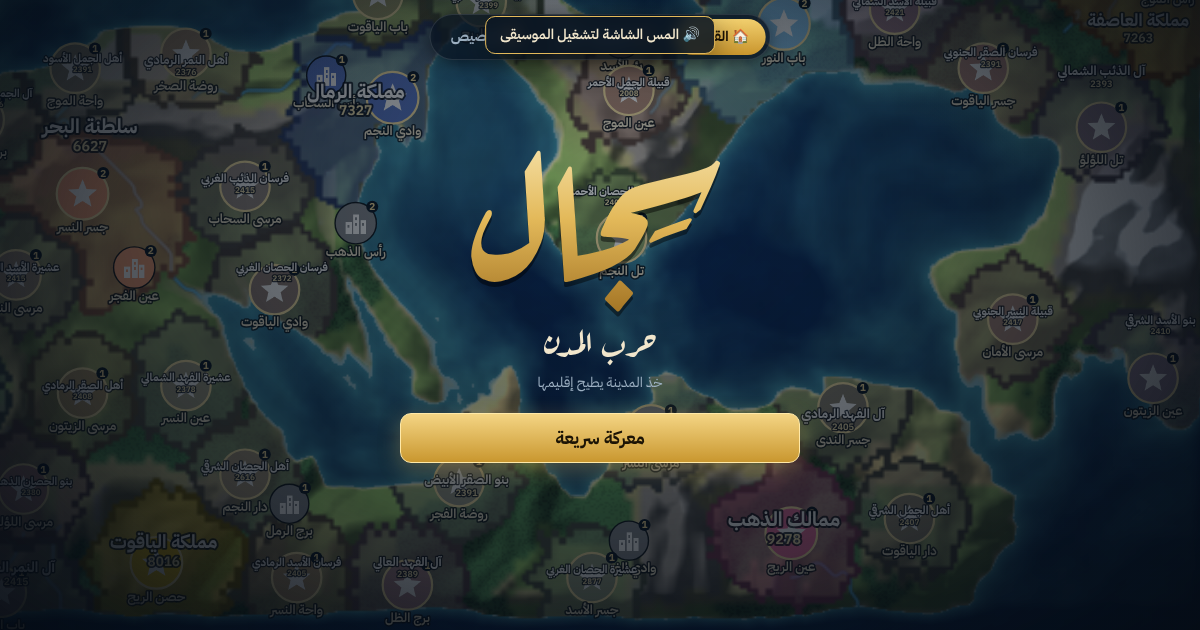
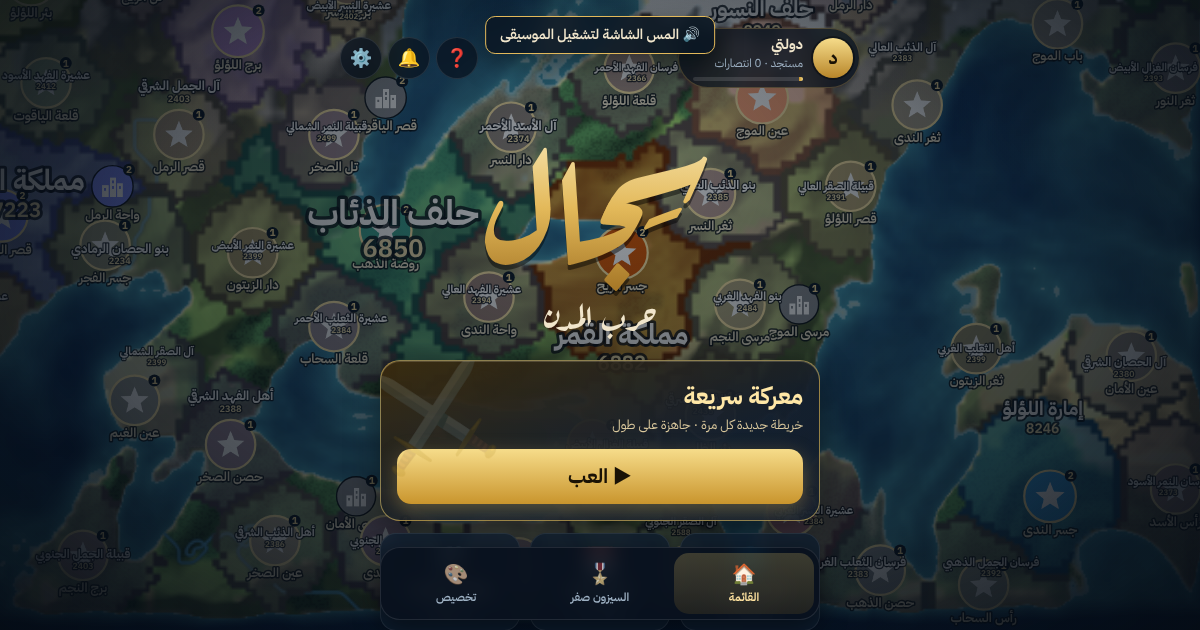
Season Zero and Customize: drop the back buttons the tab bar replaces; news for the new menu
Claude-Session: https://claude.ai/code/session_01DE77Q6PVtjTWn3qCBTcsws

diff --git a/dist/sijal-mobile.html b/dist/sijal-mobile.html
@@ -505,7 +505,7 @@ h3{font-size:13px;color:var(--dim);font-weight:600;margin-bottom:6px}
 </div>
 <script>
 window.SIJAL_MODE='mobile';(function(){"use strict";
-const BUILD_ID='6c9f4a77e5';
+const BUILD_ID='704b83b903';
 // ── SIJAL · core: constants, utilities, shared data ──
 const TPS=10,SEASON_LEN=450;
 // terrain ids: 0 deep, 1 shallow, 2 plains, 3 forest, 4 desert, 5 hills, 6 mountain, 7 snow
@@ -2209,6 +2209,7 @@ TX.en.help[8]=['The road to victory','Hold 99% of the world\'s land. Every realm
 TX.en.dInfo[2]=['Goal: the fastest win','Hold 99% of the land as fast as you can. Your time is saved; the faster the better.'];
 // update log: newest first, the game shows at most ten entries
 const LOG=[
+ {v:'5.3',d:'2026-11-24',ar:['🏠 شكل جديد للقائمة الرئيسية: أريح للعين وأسهل، وشريط تنقل تحت بين القائمة والسيزون صفر والتخصيص'],en:['🏠 A new main menu: calmer and simpler, with a tab bar at the bottom for the menu, Season Zero and Customize']},
  {v:'5.2',d:'2026-11-23',ar:['🔥 النار بعد الصواريخ والنووي صارت واقعية: تهدأ أسرع، وتنتشر بشويش في الأرض الخضراء، وبسرعة في الغابات بدون ما تاكلها كلها، وما تنتشر في الصحراء، وفي الشتاء تطفى بسرعة','✨ شكل النار أحلى في الجرافيكس المتوسط والعالي: لهب بأطوال مختلفة وجمر وشرار ودخان','🛠 المدينة اللي ينضربها صاروخ أو نووي تقدر تصلحها على طول بالذهب: اضغط عليها وتلقى «أصلحها الحين»','🌊 مدى الدفاع البحري صار يطلع على البحر، لأنه يحمي البحر من السفن','⚔ الهجوم صار أسرع إذا جيشك أقوى بكثير من جيش العدو','🛡 الهجوم المضاد على نقطة ما يوقف هجومك من كل الحدود، يرجّع الأرض في مكانه بس. اللي يوقفه كامل هجوم مضاد من كل الحدود','😠 البوتات ما تصير معادية لك إلا إذا هجمت عليهم أو هجموا عليك','🚢 لما توقف التجارة مع دولة، السفن والقطارات اللي رايحة لها ترجع لميناءك بدل ما تختفي'],en:['🔥 Fire after missiles and nukes is realistic now: it dies down faster, creeps slowly over grass, races through forest without taking all of it, never spreads on sand, and in winter it goes out quickly','✨ Nicer fire on Medium and High graphics: flames of different heights, embers, sparks and smoke','🛠 A city hit by a missile or nuke can be repaired at once for gold: tap it and press Repair now','🌊 The coastal gun range now shows over the sea, since it guards the water from ships','⚔ Attacks move faster when your army far outnumbers the enemy','🛡 A counter-attack at one point no longer stops your all-borders attack, it only takes ground back where it lands; only an all-borders counter-attack stops it whole','😠 Bots only turn hostile when you attack them or they attack you','🚢 When you stop trade with a realm, ships and trains heading there sail back to your port instead of vanishing']},
  {v:'5.1',d:'2026-11-22',ar:['🎵 صار للعبة حساب على تيك توك: @sijal_2، تلقاه في القائمة الرئيسية. تابعنا!'],en:['🎵 Sijal is on TikTok: @sijal_2, linked from the main menu. Follow us!']},
  {v:'5.0',d:'2026-11-22',ar:['⚔ لما تقضي على دولة تاخذ أرضها كاملة، ما يبقى منها شي فاضي','🪖 شكل جديد للدبابات: جنازير وعجلات تتحرك، وهيكل مموّه بلون دولتك، وبرج ومدفع، ولهب من المدفع وغبار وهي تمشي','🛡 خطوط مدى الحصون صارت تطلع بس لما تختار الحصن أو تبني، عشان ما تتلخبط مع الحدود','🚀 القبة الدفاعية صارت تطلق صاروخ اعتراض يطلع للسما ويفجّر الصاروخ الجاي، والدفاع البحري يطلق قذيفة بلهب من المدفع وترشّ الموية مكان ما تطيح','📏 تطوير الحصن والقبة والدفاع البحري صار يكبّر مداهم بشكل أكبر: الحصن من 8 لين 18، القبة من 19 لين 35، والدفاع البحري من 17 لين 33'],en:['⚔ Wiping out a realm now gives you all of its land, with nothing left empty','🪖 New tank look: moving tracks and wheels, a camouflaged hull in your colour, turret and gun, muzzle flash and dust on the move','🛡 Fort range outlines only show when you select a fort or build, so they are not mistaken for borders','🚀 Shield domes now launch an interceptor that climbs and bursts the incoming missile, and coastal guns fire a shell with a muzzle flash and a splash where it lands','📏 Upgrading forts, domes and coastal guns now grows their range much more: fort 8 to 18, dome 19 to 35, coastal gun 17 to 33']},
@@ -2806,13 +2807,13 @@ function renderPass(){
   const openBtn=on?'':`<button class="btn big bpbuy${xp>=PASS_AT?'':' low'}" data-a="bpBuy">🎖 ${t('bpOpen')} · ${fmt(PASS_AT)}</button>`;
   $('#help').innerHTML=`${mtabs('pass')}<h2>🎖 ${t('bp')}</h2><p class="keys">${t('bpNote')}</p><div class="bpbar"><div style="width:${pc}%"></div><span dir="ltr">${on?(n>=PASS.length?t('bpTier',n,PASS.length):fmt(PASS_STEP)+' / '+fmt(xp)):fmt(PASS_AT)+' / '+fmt(xp)}</span></div><p class="keys">${head}</p>${openBtn}${n<PASS.length&&!UI.owner?`<div class="sup"><b>💜 ${t('supT',SUPPORT_SAR)}</b><span>${t('supD')}</span><span>${t('supWho')}</span><button class="btn ok" data-a="supOpen">${t('supBtn',SUPPORT_SAR)}</button></div>`:''}
   <div class="bpg free">${PASS.map(([ty,id],j)=>{const got=j<n,eq=k[ty]===id;return`<div class="bpc${got?' got':''}${eq?' eq':''}${on&&j===n?(xp>=PASS_STEP?' can':' cant'):''}"><small>${j+1}</small><img src="${skinPreview(ty,id)}" alt=""><b>${t('sk_'+id)}</b><span>${t(ty==='pat'?'bpPat':'bpBld')}</span>${got?`<em class="ok">✓ ${t('bpGot')}</em>`:on&&j===n?`<button class="btn sm ok" data-a="bpBuy">${t('bpClaim')} · ${fmt(PASS_STEP)}</button>`:`<em>🔒 ${fmt(PASS_STEP)}</em>`}</div>`;}).join('')}</div>
-  <div class="row"><button class="btn" data-a="skins">🎨 ${t('tSkins')}</button><button class="btn big" data-a="menu">${t('back')}</button></div>`;
+  `;
 }
 // customization: equip what you have unlocked
 function renderSkins(){
   const p=UI.prof,k=p.skin||{},n=passTier(p),sec=(ty,lab)=>{const L=PASS.slice(0,n).filter(e=>e[0]===ty);return`<h3>${lab}</h3><div class="bpg free"><div class="bpc got${!k[ty]?' eq':''}"><div class="none">✕</div><b>${t('skNone')}</b><button class="btn sm${!k[ty]?'':' ok'}" data-a="skin:${ty}:">${!k[ty]?'✓ '+t('bpOn'):t('bpWear')}</button></div>${L.map(([,id])=>{const eq=k[ty]===id;return`<div class="bpc got${eq?' eq':''}"><img src="${skinPreview(ty,id)}" alt=""><b>${t('sk_'+id)}</b><button class="btn sm${eq?'':' ok'}" data-a="skin:${ty}:${eq?'':id}">${eq?'✓ '+t('bpOn'):t('bpWear')}</button></div>`;}).join('')}</div>`;};
   const bdg=hasPass(p)?`<h3>${t('bdgT')}</h3><div class="bdgrow"><span class="bdgshow">${BADGE}<b>${esc(p.name||t('defName'))}</b></span><div class="chips"><button class="chip${!p.hideBadge?' on':''}" data-a="badge:1">${t('bdgOn')}</button><button class="chip${p.hideBadge?' on':''}" data-a="badge:0">${t('bdgOff')}</button></div></div><p class="keys">${t('bdgNote')}</p>`:'';
-  $('#help').innerHTML=`${mtabs('skins')}<h2>🎨 ${t('tSkins')}</h2>${bdg}${n?`<p class="keys">${t('skNote')}</p>${sec('pat',t('bpPat'))}${sec('bld',t('bpBld'))}`:`<p class="keys">${t('skEmpty')}</p>`}<div class="row"><button class="btn big" data-a="menu">${t('back')}</button></div>`;
+  $('#help').innerHTML=`${mtabs('skins')}<h2>🎨 ${t('tSkins')}</h2>${bdg}${n?`<p class="keys">${t('skNote')}</p>${sec('pat',t('bpPat'))}${sec('bld',t('bpBld'))}`:`<p class="keys">${t('skEmpty')}</p>`}`;
 }
 // ── admins: the root account plus anyone it (or another admin) grants; checked against the database, which enforces it ──
 const ADMIN_ROOT='saadsd';

diff --git a/dist/sijal-pc.html b/dist/sijal-pc.html
@@ -505,7 +505,7 @@ h3{font-size:13px;color:var(--dim);font-weight:600;margin-bottom:6px}
 </div>
 <script>
 window.SIJAL_MODE='pc';(function(){"use strict";
-const BUILD_ID='6c9f4a77e5';
+const BUILD_ID='704b83b903';
 // ── SIJAL · core: constants, utilities, shared data ──
 const TPS=10,SEASON_LEN=450;
 // terrain ids: 0 deep, 1 shallow, 2 plains, 3 forest, 4 desert, 5 hills, 6 mountain, 7 snow
@@ -2209,6 +2209,7 @@ TX.en.help[8]=['The road to victory','Hold 99% of the world\'s land. Every realm
 TX.en.dInfo[2]=['Goal: the fastest win','Hold 99% of the land as fast as you can. Your time is saved; the faster the better.'];
 // update log: newest first, the game shows at most ten entries
 const LOG=[
+ {v:'5.3',d:'2026-11-24',ar:['🏠 شكل جديد للقائمة الرئيسية: أريح للعين وأسهل، وشريط تنقل تحت بين القائمة والسيزون صفر والتخصيص'],en:['🏠 A new main menu: calmer and simpler, with a tab bar at the bottom for the menu, Season Zero and Customize']},
  {v:'5.2',d:'2026-11-23',ar:['🔥 النار بعد الصواريخ والنووي صارت واقعية: تهدأ أسرع، وتنتشر بشويش في الأرض الخضراء، وبسرعة في الغابات بدون ما تاكلها كلها، وما تنتشر في الصحراء، وفي الشتاء تطفى بسرعة','✨ شكل النار أحلى في الجرافيكس المتوسط والعالي: لهب بأطوال مختلفة وجمر وشرار ودخان','🛠 المدينة اللي ينضربها صاروخ أو نووي تقدر تصلحها على طول بالذهب: اضغط عليها وتلقى «أصلحها الحين»','🌊 مدى الدفاع البحري صار يطلع على البحر، لأنه يحمي البحر من السفن','⚔ الهجوم صار أسرع إذا جيشك أقوى بكثير من جيش العدو','🛡 الهجوم المضاد على نقطة ما يوقف هجومك من كل الحدود، يرجّع الأرض في مكانه بس. اللي يوقفه كامل هجوم مضاد من كل الحدود','😠 البوتات ما تصير معادية لك إلا إذا هجمت عليهم أو هجموا عليك','🚢 لما توقف التجارة مع دولة، السفن والقطارات اللي رايحة لها ترجع لميناءك بدل ما تختفي'],en:['🔥 Fire after missiles and nukes is realistic now: it dies down faster, creeps slowly over grass, races through forest without taking all of it, never spreads on sand, and in winter it goes out quickly','✨ Nicer fire on Medium and High graphics: flames of different heights, embers, sparks and smoke','🛠 A city hit by a missile or nuke can be repaired at once for gold: tap it and press Repair now','🌊 The coastal gun range now shows over the sea, since it guards the water from ships','⚔ Attacks move faster when your army far outnumbers the enemy','🛡 A counter-attack at one point no longer stops your all-borders attack, it only takes ground back where it lands; only an all-borders counter-attack stops it whole','😠 Bots only turn hostile when you attack them or they attack you','🚢 When you stop trade with a realm, ships and trains heading there sail back to your port instead of vanishing']},
  {v:'5.1',d:'2026-11-22',ar:['🎵 صار للعبة حساب على تيك توك: @sijal_2، تلقاه في القائمة الرئيسية. تابعنا!'],en:['🎵 Sijal is on TikTok: @sijal_2, linked from the main menu. Follow us!']},
  {v:'5.0',d:'2026-11-22',ar:['⚔ لما تقضي على دولة تاخذ أرضها كاملة، ما يبقى منها شي فاضي','🪖 شكل جديد للدبابات: جنازير وعجلات تتحرك، وهيكل مموّه بلون دولتك، وبرج ومدفع، ولهب من المدفع وغبار وهي تمشي','🛡 خطوط مدى الحصون صارت تطلع بس لما تختار الحصن أو تبني، عشان ما تتلخبط مع الحدود','🚀 القبة الدفاعية صارت تطلق صاروخ اعتراض يطلع للسما ويفجّر الصاروخ الجاي، والدفاع البحري يطلق قذيفة بلهب من المدفع وترشّ الموية مكان ما تطيح','📏 تطوير الحصن والقبة والدفاع البحري صار يكبّر مداهم بشكل أكبر: الحصن من 8 لين 18، القبة من 19 لين 35، والدفاع البحري من 17 لين 33'],en:['⚔ Wiping out a realm now gives you all of its land, with nothing left empty','🪖 New tank look: moving tracks and wheels, a camouflaged hull in your colour, turret and gun, muzzle flash and dust on the move','🛡 Fort range outlines only show when you select a fort or build, so they are not mistaken for borders','🚀 Shield domes now launch an interceptor that climbs and bursts the incoming missile, and coastal guns fire a shell with a muzzle flash and a splash where it lands','📏 Upgrading forts, domes and coastal guns now grows their range much more: fort 8 to 18, dome 19 to 35, coastal gun 17 to 33']},
@@ -2806,13 +2807,13 @@ function renderPass(){
   const openBtn=on?'':`<button class="btn big bpbuy${xp>=PASS_AT?'':' low'}" data-a="bpBuy">🎖 ${t('bpOpen')} · ${fmt(PASS_AT)}</button>`;
   $('#help').innerHTML=`${mtabs('pass')}<h2>🎖 ${t('bp')}</h2><p class="keys">${t('bpNote')}</p><div class="bpbar"><div style="width:${pc}%"></div><span dir="ltr">${on?(n>=PASS.length?t('bpTier',n,PASS.length):fmt(PASS_STEP)+' / '+fmt(xp)):fmt(PASS_AT)+' / '+fmt(xp)}</span></div><p class="keys">${head}</p>${openBtn}${n<PASS.length&&!UI.owner?`<div class="sup"><b>💜 ${t('supT',SUPPORT_SAR)}</b><span>${t('supD')}</span><span>${t('supWho')}</span><button class="btn ok" data-a="supOpen">${t('supBtn',SUPPORT_SAR)}</button></div>`:''}
   <div class="bpg free">${PASS.map(([ty,id],j)=>{const got=j<n,eq=k[ty]===id;return`<div class="bpc${got?' got':''}${eq?' eq':''}${on&&j===n?(xp>=PASS_STEP?' can':' cant'):''}"><small>${j+1}</small><img src="${skinPreview(ty,id)}" alt=""><b>${t('sk_'+id)}</b><span>${t(ty==='pat'?'bpPat':'bpBld')}</span>${got?`<em class="ok">✓ ${t('bpGot')}</em>`:on&&j===n?`<button class="btn sm ok" data-a="bpBuy">${t('bpClaim')} · ${fmt(PASS_STEP)}</button>`:`<em>🔒 ${fmt(PASS_STEP)}</em>`}</div>`;}).join('')}</div>
-  <div class="row"><button class="btn" data-a="skins">🎨 ${t('tSkins')}</button><button class="btn big" data-a="menu">${t('back')}</button></div>`;
+  `;
 }
 // customization: equip what you have unlocked
 function renderSkins(){
   const p=UI.prof,k=p.skin||{},n=passTier(p),sec=(ty,lab)=>{const L=PASS.slice(0,n).filter(e=>e[0]===ty);return`<h3>${lab}</h3><div class="bpg free"><div class="bpc got${!k[ty]?' eq':''}"><div class="none">✕</div><b>${t('skNone')}</b><button class="btn sm${!k[ty]?'':' ok'}" data-a="skin:${ty}:">${!k[ty]?'✓ '+t('bpOn'):t('bpWear')}</button></div>${L.map(([,id])=>{const eq=k[ty]===id;return`<div class="bpc got${eq?' eq':''}"><img src="${skinPreview(ty,id)}" alt=""><b>${t('sk_'+id)}</b><button class="btn sm${eq?'':' ok'}" data-a="skin:${ty}:${eq?'':id}">${eq?'✓ '+t('bpOn'):t('bpWear')}</button></div>`;}).join('')}</div>`;};
   const bdg=hasPass(p)?`<h3>${t('bdgT')}</h3><div class="bdgrow"><span class="bdgshow">${BADGE}<b>${esc(p.name||t('defName'))}</b></span><div class="chips"><button class="chip${!p.hideBadge?' on':''}" data-a="badge:1">${t('bdgOn')}</button><button class="chip${p.hideBadge?' on':''}" data-a="badge:0">${t('bdgOff')}</button></div></div><p class="keys">${t('bdgNote')}</p>`:'';
-  $('#help').innerHTML=`${mtabs('skins')}<h2>🎨 ${t('tSkins')}</h2>${bdg}${n?`<p class="keys">${t('skNote')}</p>${sec('pat',t('bpPat'))}${sec('bld',t('bpBld'))}`:`<p class="keys">${t('skEmpty')}</p>`}<div class="row"><button class="btn big" data-a="menu">${t('back')}</button></div>`;
+  $('#help').innerHTML=`${mtabs('skins')}<h2>🎨 ${t('tSkins')}</h2>${bdg}${n?`<p class="keys">${t('skNote')}</p>${sec('pat',t('bpPat'))}${sec('bld',t('bpBld'))}`:`<p class="keys">${t('skEmpty')}</p>`}`;
 }
 // ── admins: the root account plus anyone it (or another admin) grants; checked against the database, which enforces it ──
 const ADMIN_ROOT='saadsd';

diff --git a/dist/sijal-artifact.html b/dist/sijal-artifact.html
@@ -495,7 +495,7 @@ h3{font-size:13px;color:var(--dim);font-weight:600;margin-bottom:6px}
 </div>
 <script>
 (function(){"use strict";
-const BUILD_ID='6c9f4a77e5';
+const BUILD_ID='704b83b903';
 // ── SIJAL · core: constants, utilities, shared data ──
 const TPS=10,SEASON_LEN=450;
 // terrain ids: 0 deep, 1 shallow, 2 plains, 3 forest, 4 desert, 5 hills, 6 mountain, 7 snow
@@ -2199,6 +2199,7 @@ TX.en.help[8]=['The road to victory','Hold 99% of the world\'s land. Every realm
 TX.en.dInfo[2]=['Goal: the fastest win','Hold 99% of the land as fast as you can. Your time is saved; the faster the better.'];
 // update log: newest first, the game shows at most ten entries
 const LOG=[
+ {v:'5.3',d:'2026-11-24',ar:['🏠 شكل جديد للقائمة الرئيسية: أريح للعين وأسهل، وشريط تنقل تحت بين القائمة والسيزون صفر والتخصيص'],en:['🏠 A new main menu: calmer and simpler, with a tab bar at the bottom for the menu, Season Zero and Customize']},
  {v:'5.2',d:'2026-11-23',ar:['🔥 النار بعد الصواريخ والنووي صارت واقعية: تهدأ أسرع، وتنتشر بشويش في الأرض الخضراء، وبسرعة في الغابات بدون ما تاكلها كلها، وما تنتشر في الصحراء، وفي الشتاء تطفى بسرعة','✨ شكل النار أحلى في الجرافيكس المتوسط والعالي: لهب بأطوال مختلفة وجمر وشرار ودخان','🛠 المدينة اللي ينضربها صاروخ أو نووي تقدر تصلحها على طول بالذهب: اضغط عليها وتلقى «أصلحها الحين»','🌊 مدى الدفاع البحري صار يطلع على البحر، لأنه يحمي البحر من السفن','⚔ الهجوم صار أسرع إذا جيشك أقوى بكثير من جيش العدو','🛡 الهجوم المضاد على نقطة ما يوقف هجومك من كل الحدود، يرجّع الأرض في مكانه بس. اللي يوقفه كامل هجوم مضاد من كل الحدود','😠 البوتات ما تصير معادية لك إلا إذا هجمت عليهم أو هجموا عليك','🚢 لما توقف التجارة مع دولة، السفن والقطارات اللي رايحة لها ترجع لميناءك بدل ما تختفي'],en:['🔥 Fire after missiles and nukes is realistic now: it dies down faster, creeps slowly over grass, races through forest without taking all of it, never spreads on sand, and in winter it goes out quickly','✨ Nicer fire on Medium and High graphics: flames of different heights, embers, sparks and smoke','🛠 A city hit by a missile or nuke can be repaired at once for gold: tap it and press Repair now','🌊 The coastal gun range now shows over the sea, since it guards the water from ships','⚔ Attacks move faster when your army far outnumbers the enemy','🛡 A counter-attack at one point no longer stops your all-borders attack, it only takes ground back where it lands; only an all-borders counter-attack stops it whole','😠 Bots only turn hostile when you attack them or they attack you','🚢 When you stop trade with a realm, ships and trains heading there sail back to your port instead of vanishing']},
  {v:'5.1',d:'2026-11-22',ar:['🎵 صار للعبة حساب على تيك توك: @sijal_2، تلقاه في القائمة الرئيسية. تابعنا!'],en:['🎵 Sijal is on TikTok: @sijal_2, linked from the main menu. Follow us!']},
  {v:'5.0',d:'2026-11-22',ar:['⚔ لما تقضي على دولة تاخذ أرضها كاملة، ما يبقى منها شي فاضي','🪖 شكل جديد للدبابات: جنازير وعجلات تتحرك، وهيكل مموّه بلون دولتك، وبرج ومدفع، ولهب من المدفع وغبار وهي تمشي','🛡 خطوط مدى الحصون صارت تطلع بس لما تختار الحصن أو تبني، عشان ما تتلخبط مع الحدود','🚀 القبة الدفاعية صارت تطلق صاروخ اعتراض يطلع للسما ويفجّر الصاروخ الجاي، والدفاع البحري يطلق قذيفة بلهب من المدفع وترشّ الموية مكان ما تطيح','📏 تطوير الحصن والقبة والدفاع البحري صار يكبّر مداهم بشكل أكبر: الحصن من 8 لين 18، القبة من 19 لين 35، والدفاع البحري من 17 لين 33'],en:['⚔ Wiping out a realm now gives you all of its land, with nothing left empty','🪖 New tank look: moving tracks and wheels, a camouflaged hull in your colour, turret and gun, muzzle flash and dust on the move','🛡 Fort range outlines only show when you select a fort or build, so they are not mistaken for borders','🚀 Shield domes now launch an interceptor that climbs and bursts the incoming missile, and coastal guns fire a shell with a muzzle flash and a splash where it lands','📏 Upgrading forts, domes and coastal guns now grows their range much more: fort 8 to 18, dome 19 to 35, coastal gun 17 to 33']},
@@ -2796,13 +2797,13 @@ function renderPass(){
   const openBtn=on?'':`<button class="btn big bpbuy${xp>=PASS_AT?'':' low'}" data-a="bpBuy">🎖 ${t('bpOpen')} · ${fmt(PASS_AT)}</button>`;
   $('#help').innerHTML=`${mtabs('pass')}<h2>🎖 ${t('bp')}</h2><p class="keys">${t('bpNote')}</p><div class="bpbar"><div style="width:${pc}%"></div><span dir="ltr">${on?(n>=PASS.length?t('bpTier',n,PASS.length):fmt(PASS_STEP)+' / '+fmt(xp)):fmt(PASS_AT)+' / '+fmt(xp)}</span></div><p class="keys">${head}</p>${openBtn}${n<PASS.length&&!UI.owner?`<div class="sup"><b>💜 ${t('supT',SUPPORT_SAR)}</b><span>${t('supD')}</span><span>${t('supWho')}</span><button class="btn ok" data-a="supOpen">${t('supBtn',SUPPORT_SAR)}</button></div>`:''}
   <div class="bpg free">${PASS.map(([ty,id],j)=>{const got=j<n,eq=k[ty]===id;return`<div class="bpc${got?' got':''}${eq?' eq':''}${on&&j===n?(xp>=PASS_STEP?' can':' cant'):''}"><small>${j+1}</small><img src="${skinPreview(ty,id)}" alt=""><b>${t('sk_'+id)}</b><span>${t(ty==='pat'?'bpPat':'bpBld')}</span>${got?`<em class="ok">✓ ${t('bpGot')}</em>`:on&&j===n?`<button class="btn sm ok" data-a="bpBuy">${t('bpClaim')} · ${fmt(PASS_STEP)}</button>`:`<em>🔒 ${fmt(PASS_STEP)}</em>`}</div>`;}).join('')}</div>
-  <div class="row"><button class="btn" data-a="skins">🎨 ${t('tSkins')}</button><button class="btn big" data-a="menu">${t('back')}</button></div>`;
+  `;
 }
 // customization: equip what you have unlocked
 function renderSkins(){
   const p=UI.prof,k=p.skin||{},n=passTier(p),sec=(ty,lab)=>{const L=PASS.slice(0,n).filter(e=>e[0]===ty);return`<h3>${lab}</h3><div class="bpg free"><div class="bpc got${!k[ty]?' eq':''}"><div class="none">✕</div><b>${t('skNone')}</b><button class="btn sm${!k[ty]?'':' ok'}" data-a="skin:${ty}:">${!k[ty]?'✓ '+t('bpOn'):t('bpWear')}</button></div>${L.map(([,id])=>{const eq=k[ty]===id;return`<div class="bpc got${eq?' eq':''}"><img src="${skinPreview(ty,id)}" alt=""><b>${t('sk_'+id)}</b><button class="btn sm${eq?'':' ok'}" data-a="skin:${ty}:${eq?'':id}">${eq?'✓ '+t('bpOn'):t('bpWear')}</button></div>`;}).join('')}</div>`;};
   const bdg=hasPass(p)?`<h3>${t('bdgT')}</h3><div class="bdgrow"><span class="bdgshow">${BADGE}<b>${esc(p.name||t('defName'))}</b></span><div class="chips"><button class="chip${!p.hideBadge?' on':''}" data-a="badge:1">${t('bdgOn')}</button><button class="chip${p.hideBadge?' on':''}" data-a="badge:0">${t('bdgOff')}</button></div></div><p class="keys">${t('bdgNote')}</p>`:'';
-  $('#help').innerHTML=`${mtabs('skins')}<h2>🎨 ${t('tSkins')}</h2>${bdg}${n?`<p class="keys">${t('skNote')}</p>${sec('pat',t('bpPat'))}${sec('bld',t('bpBld'))}`:`<p class="keys">${t('skEmpty')}</p>`}<div class="row"><button class="btn big" data-a="menu">${t('back')}</button></div>`;
+  $('#help').innerHTML=`${mtabs('skins')}<h2>🎨 ${t('tSkins')}</h2>${bdg}${n?`<p class="keys">${t('skNote')}</p>${sec('pat',t('bpPat'))}${sec('bld',t('bpBld'))}`:`<p class="keys">${t('skEmpty')}</p>`}`;
 }
 // ── admins: the root account plus anyone it (or another admin) grants; checked against the database, which enforces it ──
 const ADMIN_ROOT='saadsd';

diff --git a/dist/sijal.html b/dist/sijal.html
@@ -505,7 +505,7 @@ h3{font-size:13px;color:var(--dim);font-weight:600;margin-bottom:6px}
 </div>
 <script>
 (function(){"use strict";
-const BUILD_ID='6c9f4a77e5';
+const BUILD_ID='704b83b903';
 // ── SIJAL · core: constants, utilities, shared data ──
 const TPS=10,SEASON_LEN=450;
 // terrain ids: 0 deep, 1 shallow, 2 plains, 3 forest, 4 desert, 5 hills, 6 mountain, 7 snow
@@ -2209,6 +2209,7 @@ TX.en.help[8]=['The road to victory','Hold 99% of the world\'s land. Every realm
 TX.en.dInfo[2]=['Goal: the fastest win','Hold 99% of the land as fast as you can. Your time is saved; the faster the better.'];
 // update log: newest first, the game shows at most ten entries
 const LOG=[
+ {v:'5.3',d:'2026-11-24',ar:['🏠 شكل جديد للقائمة الرئيسية: أريح للعين وأسهل، وشريط تنقل تحت بين القائمة والسيزون صفر والتخصيص'],en:['🏠 A new main menu: calmer and simpler, with a tab bar at the bottom for the menu, Season Zero and Customize']},
  {v:'5.2',d:'2026-11-23',ar:['🔥 النار بعد الصواريخ والنووي صارت واقعية: تهدأ أسرع، وتنتشر بشويش في الأرض الخضراء، وبسرعة في الغابات بدون ما تاكلها كلها، وما تنتشر في الصحراء، وفي الشتاء تطفى بسرعة','✨ شكل النار أحلى في الجرافيكس المتوسط والعالي: لهب بأطوال مختلفة وجمر وشرار ودخان','🛠 المدينة اللي ينضربها صاروخ أو نووي تقدر تصلحها على طول بالذهب: اضغط عليها وتلقى «أصلحها الحين»','🌊 مدى الدفاع البحري صار يطلع على البحر، لأنه يحمي البحر من السفن','⚔ الهجوم صار أسرع إذا جيشك أقوى بكثير من جيش العدو','🛡 الهجوم المضاد على نقطة ما يوقف هجومك من كل الحدود، يرجّع الأرض في مكانه بس. اللي يوقفه كامل هجوم مضاد من كل الحدود','😠 البوتات ما تصير معادية لك إلا إذا هجمت عليهم أو هجموا عليك','🚢 لما توقف التجارة مع دولة، السفن والقطارات اللي رايحة لها ترجع لميناءك بدل ما تختفي'],en:['🔥 Fire after missiles and nukes is realistic now: it dies down faster, creeps slowly over grass, races through forest without taking all of it, never spreads on sand, and in winter it goes out quickly','✨ Nicer fire on Medium and High graphics: flames of different heights, embers, sparks and smoke','🛠 A city hit by a missile or nuke can be repaired at once for gold: tap it and press Repair now','🌊 The coastal gun range now shows over the sea, since it guards the water from ships','⚔ Attacks move faster when your army far outnumbers the enemy','🛡 A counter-attack at one point no longer stops your all-borders attack, it only takes ground back where it lands; only an all-borders counter-attack stops it whole','😠 Bots only turn hostile when you attack them or they attack you','🚢 When you stop trade with a realm, ships and trains heading there sail back to your port instead of vanishing']},
  {v:'5.1',d:'2026-11-22',ar:['🎵 صار للعبة حساب على تيك توك: @sijal_2، تلقاه في القائمة الرئيسية. تابعنا!'],en:['🎵 Sijal is on TikTok: @sijal_2, linked from the main menu. Follow us!']},
  {v:'5.0',d:'2026-11-22',ar:['⚔ لما تقضي على دولة تاخذ أرضها كاملة، ما يبقى منها شي فاضي','🪖 شكل جديد للدبابات: جنازير وعجلات تتحرك، وهيكل مموّه بلون دولتك، وبرج ومدفع، ولهب من المدفع وغبار وهي تمشي','🛡 خطوط مدى الحصون صارت تطلع بس لما تختار الحصن أو تبني، عشان ما تتلخبط مع الحدود','🚀 القبة الدفاعية صارت تطلق صاروخ اعتراض يطلع للسما ويفجّر الصاروخ الجاي، والدفاع البحري يطلق قذيفة بلهب من المدفع وترشّ الموية مكان ما تطيح','📏 تطوير الحصن والقبة والدفاع البحري صار يكبّر مداهم بشكل أكبر: الحصن من 8 لين 18، القبة من 19 لين 35، والدفاع البحري من 17 لين 33'],en:['⚔ Wiping out a realm now gives you all of its land, with nothing left empty','🪖 New tank look: moving tracks and wheels, a camouflaged hull in your colour, turret and gun, muzzle flash and dust on the move','🛡 Fort range outlines only show when you select a fort or build, so they are not mistaken for borders','🚀 Shield domes now launch an interceptor that climbs and bursts the incoming missile, and coastal guns fire a shell with a muzzle flash and a splash where it lands','📏 Upgrading forts, domes and coastal guns now grows their range much more: fort 8 to 18, dome 19 to 35, coastal gun 17 to 33']},
@@ -2806,13 +2807,13 @@ function renderPass(){
   const openBtn=on?'':`<button class="btn big bpbuy${xp>=PASS_AT?'':' low'}" data-a="bpBuy">🎖 ${t('bpOpen')} · ${fmt(PASS_AT)}</button>`;
   $('#help').innerHTML=`${mtabs('pass')}<h2>🎖 ${t('bp')}</h2><p class="keys">${t('bpNote')}</p><div class="bpbar"><div style="width:${pc}%"></div><span dir="ltr">${on?(n>=PASS.length?t('bpTier',n,PASS.length):fmt(PASS_STEP)+' / '+fmt(xp)):fmt(PASS_AT)+' / '+fmt(xp)}</span></div><p class="keys">${head}</p>${openBtn}${n<PASS.length&&!UI.owner?`<div class="sup"><b>💜 ${t('supT',SUPPORT_SAR)}</b><span>${t('supD')}</span><span>${t('supWho')}</span><button class="btn ok" data-a="supOpen">${t('supBtn',SUPPORT_SAR)}</button></div>`:''}
   <div class="bpg free">${PASS.map(([ty,id],j)=>{const got=j<n,eq=k[ty]===id;return`<div class="bpc${got?' got':''}${eq?' eq':''}${on&&j===n?(xp>=PASS_STEP?' can':' cant'):''}"><small>${j+1}</small><img src="${skinPreview(ty,id)}" alt=""><b>${t('sk_'+id)}</b><span>${t(ty==='pat'?'bpPat':'bpBld')}</span>${got?`<em class="ok">✓ ${t('bpGot')}</em>`:on&&j===n?`<button class="btn sm ok" data-a="bpBuy">${t('bpClaim')} · ${fmt(PASS_STEP)}</button>`:`<em>🔒 ${fmt(PASS_STEP)}</em>`}</div>`;}).join('')}</div>
-  <div class="row"><button class="btn" data-a="skins">🎨 ${t('tSkins')}</button><button class="btn big" data-a="menu">${t('back')}</button></div>`;
+  `;
 }
 // customization: equip what you have unlocked
 function renderSkins(){
   const p=UI.prof,k=p.skin||{},n=passTier(p),sec=(ty,lab)=>{const L=PASS.slice(0,n).filter(e=>e[0]===ty);return`<h3>${lab}</h3><div class="bpg free"><div class="bpc got${!k[ty]?' eq':''}"><div class="none">✕</div><b>${t('skNone')}</b><button class="btn sm${!k[ty]?'':' ok'}" data-a="skin:${ty}:">${!k[ty]?'✓ '+t('bpOn'):t('bpWear')}</button></div>${L.map(([,id])=>{const eq=k[ty]===id;return`<div class="bpc got${eq?' eq':''}"><img src="${skinPreview(ty,id)}" alt=""><b>${t('sk_'+id)}</b><button class="btn sm${eq?'':' ok'}" data-a="skin:${ty}:${eq?'':id}">${eq?'✓ '+t('bpOn'):t('bpWear')}</button></div>`;}).join('')}</div>`;};
   const bdg=hasPass(p)?`<h3>${t('bdgT')}</h3><div class="bdgrow"><span class="bdgshow">${BADGE}<b>${esc(p.name||t('defName'))}</b></span><div class="chips"><button class="chip${!p.hideBadge?' on':''}" data-a="badge:1">${t('bdgOn')}</button><button class="chip${p.hideBadge?' on':''}" data-a="badge:0">${t('bdgOff')}</button></div></div><p class="keys">${t('bdgNote')}</p>`:'';
-  $('#help').innerHTML=`${mtabs('skins')}<h2>🎨 ${t('tSkins')}</h2>${bdg}${n?`<p class="keys">${t('skNote')}</p>${sec('pat',t('bpPat'))}${sec('bld',t('bpBld'))}`:`<p class="keys">${t('skEmpty')}</p>`}<div class="row"><button class="btn big" data-a="menu">${t('back')}</button></div>`;
+  $('#help').innerHTML=`${mtabs('skins')}<h2>🎨 ${t('tSkins')}</h2>${bdg}${n?`<p class="keys">${t('skNote')}</p>${sec('pat',t('bpPat'))}${sec('bld',t('bpBld'))}`:`<p class="keys">${t('skEmpty')}</p>`}`;
 }
 // ── admins: the root account plus anyone it (or another admin) grants; checked against the database, which enforces it ──
 const ADMIN_ROOT='saadsd';

diff --git a/dist/site/index.html b/dist/site/index.html
@@ -518,7 +518,7 @@ h3{font-size:13px;color:var(--dim);font-weight:600;margin-bottom:6px}
 </div>
 <script>
 (function(){"use strict";
-const BUILD_ID='6c9f4a77e5';
+const BUILD_ID='704b83b903';
 // ── SIJAL · core: constants, utilities, shared data ──
 const TPS=10,SEASON_LEN=450;
 // terrain ids: 0 deep, 1 shallow, 2 plains, 3 forest, 4 desert, 5 hills, 6 mountain, 7 snow
@@ -2222,6 +2222,7 @@ TX.en.help[8]=['The road to victory','Hold 99% of the world\'s land. Every realm
 TX.en.dInfo[2]=['Goal: the fastest win','Hold 99% of the land as fast as you can. Your time is saved; the faster the better.'];
 // update log: newest first, the game shows at most ten entries
 const LOG=[
+ {v:'5.3',d:'2026-11-24',ar:['🏠 شكل جديد للقائمة الرئيسية: أريح للعين وأسهل، وشريط تنقل تحت بين القائمة والسيزون صفر والتخصيص'],en:['🏠 A new main menu: calmer and simpler, with a tab bar at the bottom for the menu, Season Zero and Customize']},
  {v:'5.2',d:'2026-11-23',ar:['🔥 النار بعد الصواريخ والنووي صارت واقعية: تهدأ أسرع، وتنتشر بشويش في الأرض الخضراء، وبسرعة في الغابات بدون ما تاكلها كلها، وما تنتشر في الصحراء، وفي الشتاء تطفى بسرعة','✨ شكل النار أحلى في الجرافيكس المتوسط والعالي: لهب بأطوال مختلفة وجمر وشرار ودخان','🛠 المدينة اللي ينضربها صاروخ أو نووي تقدر تصلحها على طول بالذهب: اضغط عليها وتلقى «أصلحها الحين»','🌊 مدى الدفاع البحري صار يطلع على البحر، لأنه يحمي البحر من السفن','⚔ الهجوم صار أسرع إذا جيشك أقوى بكثير من جيش العدو','🛡 الهجوم المضاد على نقطة ما يوقف هجومك من كل الحدود، يرجّع الأرض في مكانه بس. اللي يوقفه كامل هجوم مضاد من كل الحدود','😠 البوتات ما تصير معادية لك إلا إذا هجمت عليهم أو هجموا عليك','🚢 لما توقف التجارة مع دولة، السفن والقطارات اللي رايحة لها ترجع لميناءك بدل ما تختفي'],en:['🔥 Fire after missiles and nukes is realistic now: it dies down faster, creeps slowly over grass, races through forest without taking all of it, never spreads on sand, and in winter it goes out quickly','✨ Nicer fire on Medium and High graphics: flames of different heights, embers, sparks and smoke','🛠 A city hit by a missile or nuke can be repaired at once for gold: tap it and press Repair now','🌊 The coastal gun range now shows over the sea, since it guards the water from ships','⚔ Attacks move faster when your army far outnumbers the enemy','🛡 A counter-attack at one point no longer stops your all-borders attack, it only takes ground back where it lands; only an all-borders counter-attack stops it whole','😠 Bots only turn hostile when you attack them or they attack you','🚢 When you stop trade with a realm, ships and trains heading there sail back to your port instead of vanishing']},
  {v:'5.1',d:'2026-11-22',ar:['🎵 صار للعبة حساب على تيك توك: @sijal_2، تلقاه في القائمة الرئيسية. تابعنا!'],en:['🎵 Sijal is on TikTok: @sijal_2, linked from the main menu. Follow us!']},
  {v:'5.0',d:'2026-11-22',ar:['⚔ لما تقضي على دولة تاخذ أرضها كاملة، ما يبقى منها شي فاضي','🪖 شكل جديد للدبابات: جنازير وعجلات تتحرك، وهيكل مموّه بلون دولتك، وبرج ومدفع، ولهب من المدفع وغبار وهي تمشي','🛡 خطوط مدى الحصون صارت تطلع بس لما تختار الحصن أو تبني، عشان ما تتلخبط مع الحدود','🚀 القبة الدفاعية صارت تطلق صاروخ اعتراض يطلع للسما ويفجّر الصاروخ الجاي، والدفاع البحري يطلق قذيفة بلهب من المدفع وترشّ الموية مكان ما تطيح','📏 تطوير الحصن والقبة والدفاع البحري صار يكبّر مداهم بشكل أكبر: الحصن من 8 لين 18، القبة من 19 لين 35، والدفاع البحري من 17 لين 33'],en:['⚔ Wiping out a realm now gives you all of its land, with nothing left empty','🪖 New tank look: moving tracks and wheels, a camouflaged hull in your colour, turret and gun, muzzle flash and dust on the move','🛡 Fort range outlines only show when you select a fort or build, so they are not mistaken for borders','🚀 Shield domes now launch an interceptor that climbs and bursts the incoming missile, and coastal guns fire a shell with a muzzle flash and a splash where it lands','📏 Upgrading forts, domes and coastal guns now grows their range much more: fort 8 to 18, dome 19 to 35, coastal gun 17 to 33']},
@@ -2819,13 +2820,13 @@ function renderPass(){
   const openBtn=on?'':`<button class="btn big bpbuy${xp>=PASS_AT?'':' low'}" data-a="bpBuy">🎖 ${t('bpOpen')} · ${fmt(PASS_AT)}</button>`;
   $('#help').innerHTML=`${mtabs('pass')}<h2>🎖 ${t('bp')}</h2><p class="keys">${t('bpNote')}</p><div class="bpbar"><div style="width:${pc}%"></div><span dir="ltr">${on?(n>=PASS.length?t('bpTier',n,PASS.length):fmt(PASS_STEP)+' / '+fmt(xp)):fmt(PASS_AT)+' / '+fmt(xp)}</span></div><p class="keys">${head}</p>${openBtn}${n<PASS.length&&!UI.owner?`<div class="sup"><b>💜 ${t('supT',SUPPORT_SAR)}</b><span>${t('supD')}</span><span>${t('supWho')}</span><button class="btn ok" data-a="supOpen">${t('supBtn',SUPPORT_SAR)}</button></div>`:''}
   <div class="bpg free">${PASS.map(([ty,id],j)=>{const got=j<n,eq=k[ty]===id;return`<div class="bpc${got?' got':''}${eq?' eq':''}${on&&j===n?(xp>=PASS_STEP?' can':' cant'):''}"><small>${j+1}</small><img src="${skinPreview(ty,id)}" alt=""><b>${t('sk_'+id)}</b><span>${t(ty==='pat'?'bpPat':'bpBld')}</span>${got?`<em class="ok">✓ ${t('bpGot')}</em>`:on&&j===n?`<button class="btn sm ok" data-a="bpBuy">${t('bpClaim')} · ${fmt(PASS_STEP)}</button>`:`<em>🔒 ${fmt(PASS_STEP)}</em>`}</div>`;}).join('')}</div>
-  <div class="row"><button class="btn" data-a="skins">🎨 ${t('tSkins')}</button><button class="btn big" data-a="menu">${t('back')}</button></div>`;
+  `;
 }
 // customization: equip what you have unlocked
 function renderSkins(){
   const p=UI.prof,k=p.skin||{},n=passTier(p),sec=(ty,lab)=>{const L=PASS.slice(0,n).filter(e=>e[0]===ty);return`<h3>${lab}</h3><div class="bpg free"><div class="bpc got${!k[ty]?' eq':''}"><div class="none">✕</div><b>${t('skNone')}</b><button class="btn sm${!k[ty]?'':' ok'}" data-a="skin:${ty}:">${!k[ty]?'✓ '+t('bpOn'):t('bpWear')}</button></div>${L.map(([,id])=>{const eq=k[ty]===id;return`<div class="bpc got${eq?' eq':''}"><img src="${skinPreview(ty,id)}" alt=""><b>${t('sk_'+id)}</b><button class="btn sm${eq?'':' ok'}" data-a="skin:${ty}:${eq?'':id}">${eq?'✓ '+t('bpOn'):t('bpWear')}</button></div>`;}).join('')}</div>`;};
   const bdg=hasPass(p)?`<h3>${t('bdgT')}</h3><div class="bdgrow"><span class="bdgshow">${BADGE}<b>${esc(p.name||t('defName'))}</b></span><div class="chips"><button class="chip${!p.hideBadge?' on':''}" data-a="badge:1">${t('bdgOn')}</button><button class="chip${p.hideBadge?' on':''}" data-a="badge:0">${t('bdgOff')}</button></div></div><p class="keys">${t('bdgNote')}</p>`:'';
-  $('#help').innerHTML=`${mtabs('skins')}<h2>🎨 ${t('tSkins')}</h2>${bdg}${n?`<p class="keys">${t('skNote')}</p>${sec('pat',t('bpPat'))}${sec('bld',t('bpBld'))}`:`<p class="keys">${t('skEmpty')}</p>`}<div class="row"><button class="btn big" data-a="menu">${t('back')}</button></div>`;
+  $('#help').innerHTML=`${mtabs('skins')}<h2>🎨 ${t('tSkins')}</h2>${bdg}${n?`<p class="keys">${t('skNote')}</p>${sec('pat',t('bpPat'))}${sec('bld',t('bpBld'))}`:`<p class="keys">${t('skEmpty')}</p>`}`;
 }
 // ── admins: the root account plus anyone it (or another admin) grants; checked against the database, which enforces it ──
 const ADMIN_ROOT='saadsd';

diff --git a/src/i18n.js b/src/i18n.js
@@ -190,6 +190,7 @@ TX.en.help[8]=['The road to victory','Hold 99% of the world\'s land. Every realm
 TX.en.dInfo[2]=['Goal: the fastest win','Hold 99% of the land as fast as you can. Your time is saved; the faster the better.'];
 // update log: newest first, the game shows at most ten entries
 const LOG=[
+ {v:'5.3',d:'2026-11-24',ar:['🏠 شكل جديد للقائمة الرئيسية: أريح للعين وأسهل، وشريط تنقل تحت بين القائمة والسيزون صفر والتخصيص'],en:['🏠 A new main menu: calmer and simpler, with a tab bar at the bottom for the menu, Season Zero and Customize']},
  {v:'5.2',d:'2026-11-23',ar:['🔥 النار بعد الصواريخ والنووي صارت واقعية: تهدأ أسرع، وتنتشر بشويش في الأرض الخضراء، وبسرعة في الغابات بدون ما تاكلها كلها، وما تنتشر في الصحراء، وفي الشتاء تطفى بسرعة','✨ شكل النار أحلى في الجرافيكس المتوسط والعالي: لهب بأطوال مختلفة وجمر وشرار ودخان','🛠 المدينة اللي ينضربها صاروخ أو نووي تقدر تصلحها على طول بالذهب: اضغط عليها وتلقى «أصلحها الحين»','🌊 مدى الدفاع البحري صار يطلع على البحر، لأنه يحمي البحر من السفن','⚔ الهجوم صار أسرع إذا جيشك أقوى بكثير من جيش العدو','🛡 الهجوم المضاد على نقطة ما يوقف هجومك من كل الحدود، يرجّع الأرض في مكانه بس. اللي يوقفه كامل هجوم مضاد من كل الحدود','😠 البوتات ما تصير معادية لك إلا إذا هجمت عليهم أو هجموا عليك','🚢 لما توقف التجارة مع دولة، السفن والقطارات اللي رايحة لها ترجع لميناءك بدل ما تختفي'],en:['🔥 Fire after missiles and nukes is realistic now: it dies down faster, creeps slowly over grass, races through forest without taking all of it, never spreads on sand, and in winter it goes out quickly','✨ Nicer fire on Medium and High graphics: flames of different heights, embers, sparks and smoke','🛠 A city hit by a missile or nuke can be repaired at once for gold: tap it and press Repair now','🌊 The coastal gun range now shows over the sea, since it guards the water from ships','⚔ Attacks move faster when your army far outnumbers the enemy','🛡 A counter-attack at one point no longer stops your all-borders attack, it only takes ground back where it lands; only an all-borders counter-attack stops it whole','😠 Bots only turn hostile when you attack them or they attack you','🚢 When you stop trade with a realm, ships and trains heading there sail back to your port instead of vanishing']},
  {v:'5.1',d:'2026-11-22',ar:['🎵 صار للعبة حساب على تيك توك: @sijal_2، تلقاه في القائمة الرئيسية. تابعنا!'],en:['🎵 Sijal is on TikTok: @sijal_2, linked from the main menu. Follow us!']},
  {v:'5.0',d:'2026-11-22',ar:['⚔ لما تقضي على دولة تاخذ أرضها كاملة، ما يبقى منها شي فاضي','🪖 شكل جديد للدبابات: جنازير وعجلات تتحرك، وهيكل مموّه بلون دولتك، وبرج ومدفع، ولهب من المدفع وغبار وهي تمشي','🛡 خطوط مدى الحصون صارت تطلع بس لما تختار الحصن أو تبني، عشان ما تتلخبط مع الحدود','🚀 القبة الدفاعية صارت تطلق صاروخ اعتراض يطلع للسما ويفجّر الصاروخ الجاي، والدفاع البحري يطلق قذيفة بلهب من المدفع وترشّ الموية مكان ما تطيح','📏 تطوير الحصن والقبة والدفاع البحري صار يكبّر مداهم بشكل أكبر: الحصن من 8 لين 18، القبة من 19 لين 35، والدفاع البحري من 17 لين 33'],en:['⚔ Wiping out a realm now gives you all of its land, with nothing left empty','🪖 New tank look: moving tracks and wheels, a camouflaged hull in your colour, turret and gun, muzzle flash and dust on the move','🛡 Fort range outlines only show when you select a fort or build, so they are not mistaken for borders','🚀 Shield domes now launch an interceptor that climbs and bursts the incoming missile, and coastal guns fire a shell with a muzzle flash and a splash where it lands','📏 Upgrading forts, domes and coastal guns now grows their range much more: fort 8 to 18, dome 19 to 35, coastal gun 17 to 33']},

diff --git a/src/ui.js b/src/ui.js
@@ -351,13 +351,13 @@ function renderPass(){
   const openBtn=on?'':`<button class="btn big bpbuy${xp>=PASS_AT?'':' low'}" data-a="bpBuy">🎖 ${t('bpOpen')} · ${fmt(PASS_AT)}</button>`;
   $('#help').innerHTML=`${mtabs('pass')}<h2>🎖 ${t('bp')}</h2><p class="keys">${t('bpNote')}</p><div class="bpbar"><div style="width:${pc}%"></div><span dir="ltr">${on?(n>=PASS.length?t('bpTier',n,PASS.length):fmt(PASS_STEP)+' / '+fmt(xp)):fmt(PASS_AT)+' / '+fmt(xp)}</span></div><p class="keys">${head}</p>${openBtn}${n<PASS.length&&!UI.owner?`<div class="sup"><b>💜 ${t('supT',SUPPORT_SAR)}</b><span>${t('supD')}</span><span>${t('supWho')}</span><button class="btn ok" data-a="supOpen">${t('supBtn',SUPPORT_SAR)}</button></div>`:''}
   <div class="bpg free">${PASS.map(([ty,id],j)=>{const got=j<n,eq=k[ty]===id;return`<div class="bpc${got?' got':''}${eq?' eq':''}${on&&j===n?(xp>=PASS_STEP?' can':' cant'):''}"><small>${j+1}</small><img src="${skinPreview(ty,id)}" alt=""><b>${t('sk_'+id)}</b><span>${t(ty==='pat'?'bpPat':'bpBld')}</span>${got?`<em class="ok">✓ ${t('bpGot')}</em>`:on&&j===n?`<button class="btn sm ok" data-a="bpBuy">${t('bpClaim')} · ${fmt(PASS_STEP)}</button>`:`<em>🔒 ${fmt(PASS_STEP)}</em>`}</div>`;}).join('')}</div>
-  <div class="row"><button class="btn" data-a="skins">🎨 ${t('tSkins')}</button><button class="btn big" data-a="menu">${t('back')}</button></div>`;
+  `;
 }
 // customization: equip what you have unlocked
 function renderSkins(){
   const p=UI.prof,k=p.skin||{},n=passTier(p),sec=(ty,lab)=>{const L=PASS.slice(0,n).filter(e=>e[0]===ty);return`<h3>${lab}</h3><div class="bpg free"><div class="bpc got${!k[ty]?' eq':''}"><div class="none">✕</div><b>${t('skNone')}</b><button class="btn sm${!k[ty]?'':' ok'}" data-a="skin:${ty}:">${!k[ty]?'✓ '+t('bpOn'):t('bpWear')}</button></div>${L.map(([,id])=>{const eq=k[ty]===id;return`<div class="bpc got${eq?' eq':''}"><img src="${skinPreview(ty,id)}" alt=""><b>${t('sk_'+id)}</b><button class="btn sm${eq?'':' ok'}" data-a="skin:${ty}:${eq?'':id}">${eq?'✓ '+t('bpOn'):t('bpWear')}</button></div>`;}).join('')}</div>`;};
   const bdg=hasPass(p)?`<h3>${t('bdgT')}</h3><div class="bdgrow"><span class="bdgshow">${BADGE}<b>${esc(p.name||t('defName'))}</b></span><div class="chips"><button class="chip${!p.hideBadge?' on':''}" data-a="badge:1">${t('bdgOn')}</button><button class="chip${p.hideBadge?' on':''}" data-a="badge:0">${t('bdgOff')}</button></div></div><p class="keys">${t('bdgNote')}</p>`:'';
-  $('#help').innerHTML=`${mtabs('skins')}<h2>🎨 ${t('tSkins')}</h2>${bdg}${n?`<p class="keys">${t('skNote')}</p>${sec('pat',t('bpPat'))}${sec('bld',t('bpBld'))}`:`<p class="keys">${t('skEmpty')}</p>`}<div class="row"><button class="btn big" data-a="menu">${t('back')}</button></div>`;
+  $('#help').innerHTML=`${mtabs('skins')}<h2>🎨 ${t('tSkins')}</h2>${bdg}${n?`<p class="keys">${t('skNote')}</p>${sec('pat',t('bpPat'))}${sec('bld',t('bpBld'))}`:`<p class="keys">${t('skEmpty')}</p>`}`;
 }
 // ── admins: the root account plus anyone it (or another admin) grants; checked against the database, which enforces it ──
 const ADMIN_ROOT='saadsd';
